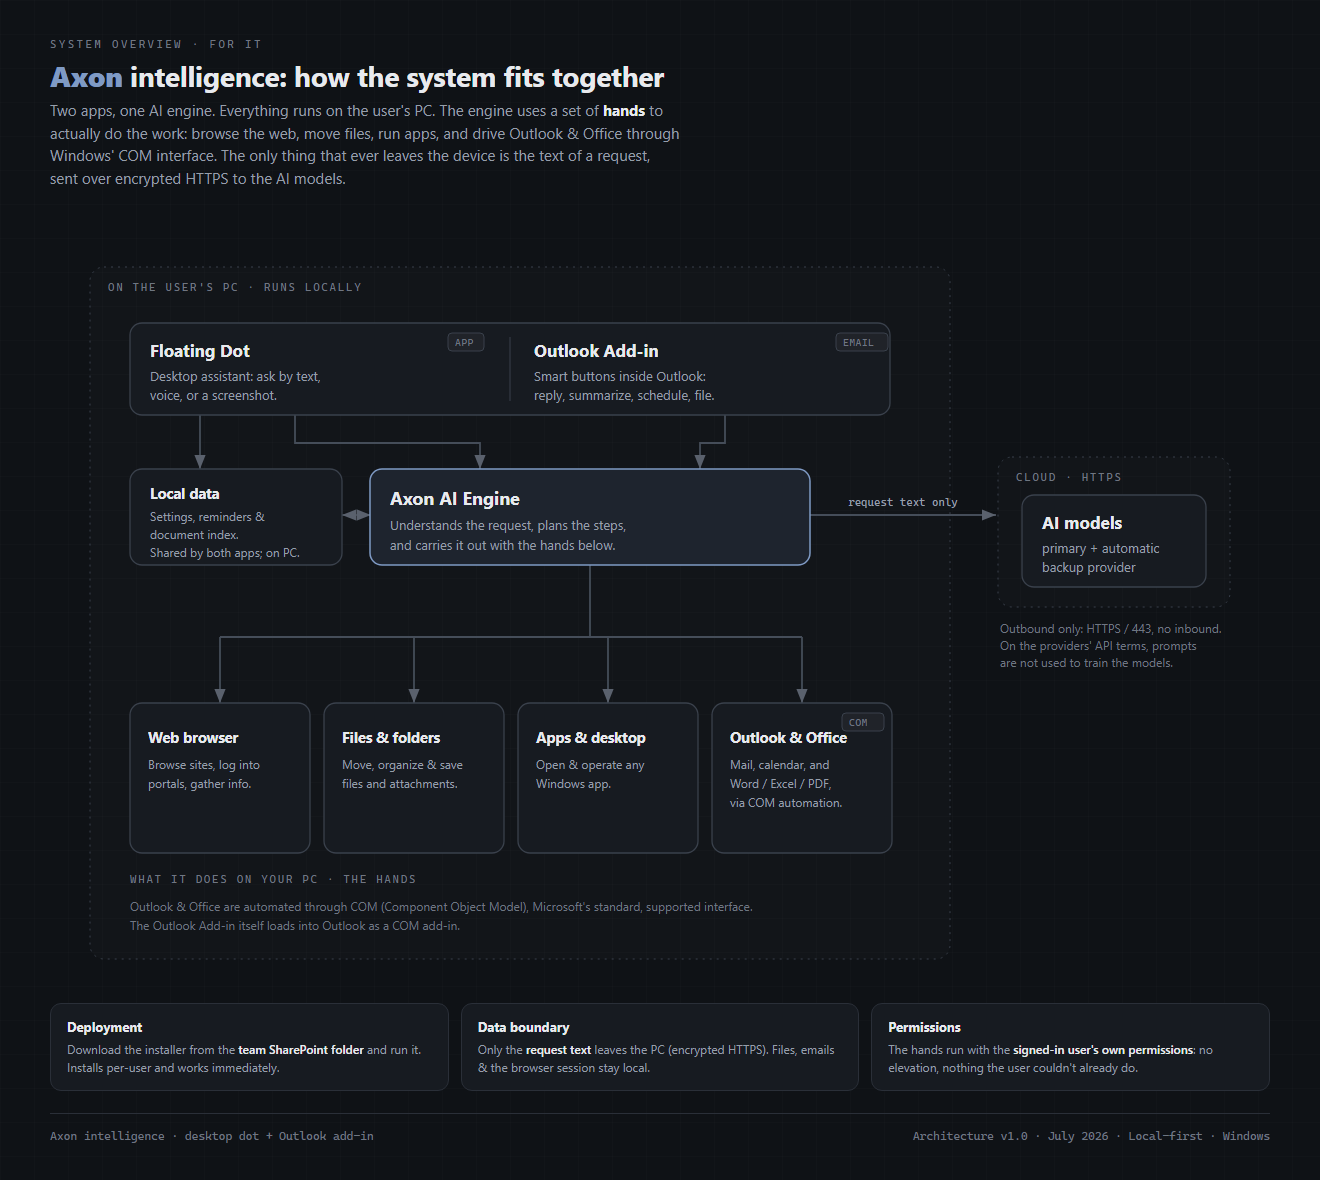
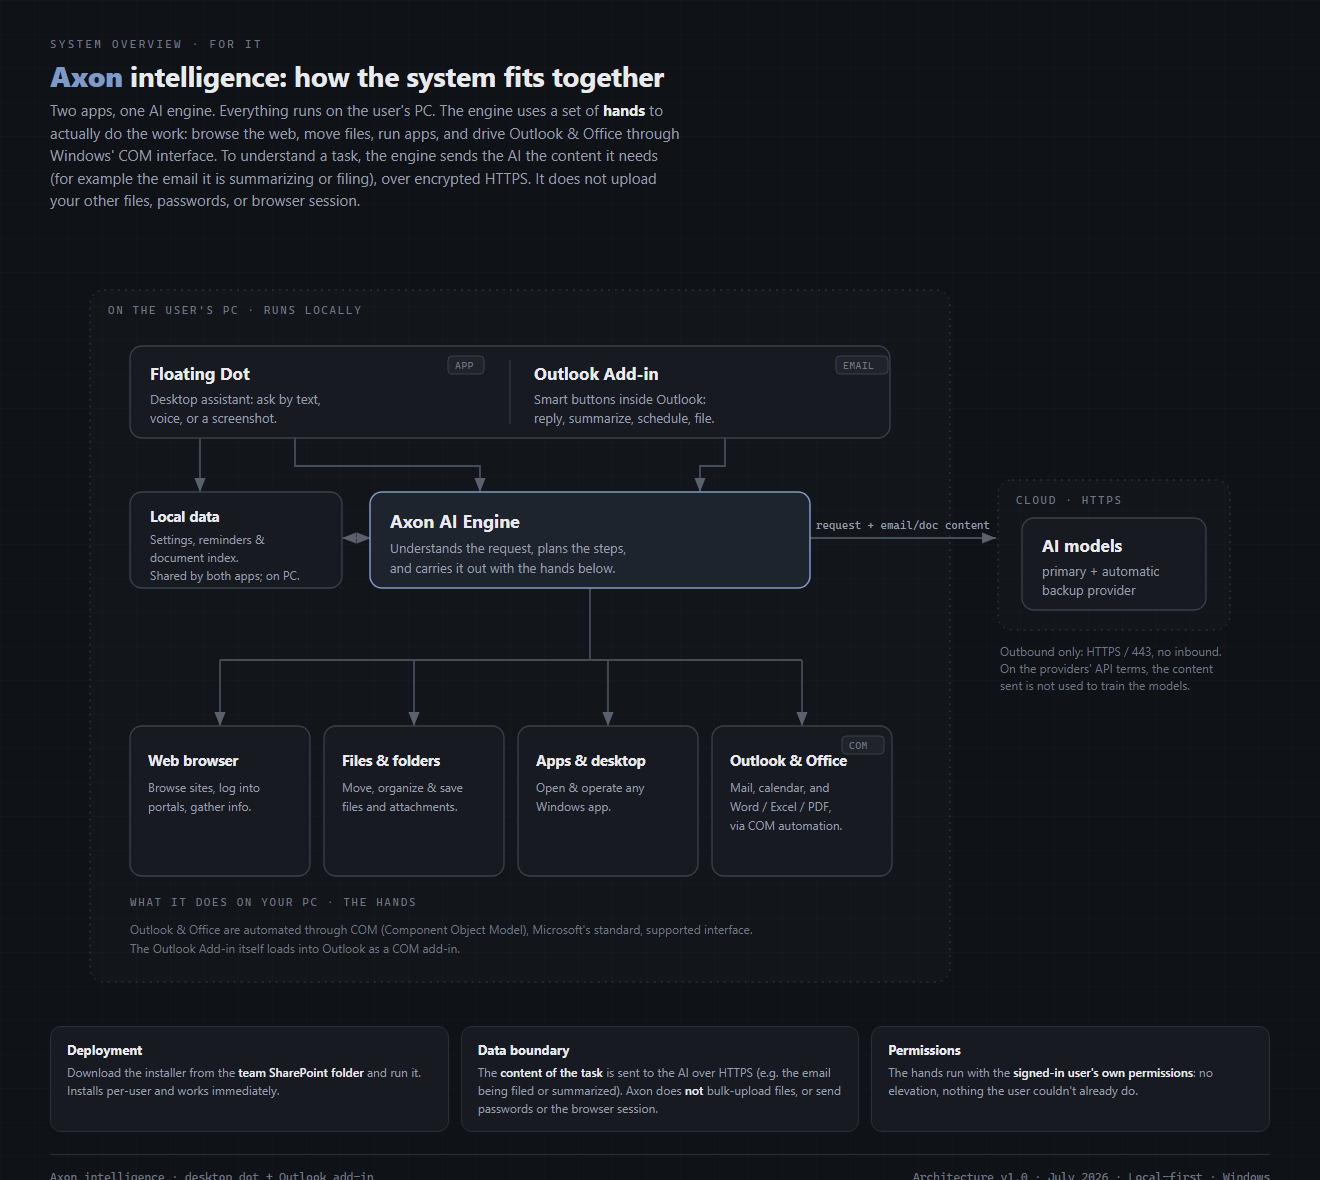
Correct data-boundary wording in architecture diagram/doc
Be accurate: for Outlook tasks the email content is sent to the AI (to summarize, reply, or pick a folder), not just 'request text'. Clarify what is sent (task content) vs not sent (bulk files, passwords, browser session).

diff --git a/docs/architecture.html b/docs/architecture.html
@@ -54,7 +54,7 @@
 
   <div class="kicker">System Overview · for IT</div>
   <h1><b>Axon</b> intelligence: how the system fits together</h1>
-  <p class="sub">Two apps, one AI engine. Everything runs on the user's PC. The engine uses a set of <b style="color:var(--ink)">hands</b> to actually do the work: browse the web, move files, run apps, and drive Outlook &amp; Office through Windows' COM interface. The only thing that ever leaves the device is the text of a request, sent over encrypted HTTPS to the AI models.</p>
+  <p class="sub">Two apps, one AI engine. Everything runs on the user's PC. The engine uses a set of <b style="color:var(--ink)">hands</b> to actually do the work: browse the web, move files, run apps, and drive Outlook &amp; Office through Windows' COM interface. To understand a task, the engine sends the AI the content it needs (for example the email it is summarizing or filing), over encrypted HTTPS. It does not upload your other files, passwords, or browser session.</p>
 
   <div class="canvas">
   <svg viewBox="0 0 1220 772" role="img" aria-label="Axon system overview for IT">
@@ -78,7 +78,7 @@
     <path class="edge" d="M150,208 L150,262" marker-end="url(#arw)"/>
     <path class="edge" d="M320,308 L292,308" marker-end="url(#arw)" marker-start="url(#arwR)"/>
     <path class="edge" d="M760,308 L946,308" marker-end="url(#arw)"/>
-    <text class="el" x="853" y="299" text-anchor="middle">request text only</text>
+    <text class="el" x="853" y="299" text-anchor="middle">request + email/doc content</text>
     <path class="edge" d="M540,358 L540,430"/>
     <path class="edge" d="M170,430 L752,430"/>
     <path class="edge" d="M170,430 L170,496" marker-end="url(#arw)"/>
@@ -164,14 +164,14 @@
 
     <!-- outbound / data-handling note -->
     <text class="nsm" x="950" y="426" style="fill:var(--faint)">Outbound only: HTTPS / 443, no inbound.</text>
-    <text class="nsm" x="950" y="443" style="fill:var(--faint)">On the providers' API terms, prompts</text>
-    <text class="nsm" x="950" y="460" style="fill:var(--faint)">are not used to train the models.</text>
+    <text class="nsm" x="950" y="443" style="fill:var(--faint)">On the providers' API terms, the content</text>
+    <text class="nsm" x="950" y="460" style="fill:var(--faint)">sent is not used to train the models.</text>
   </svg>
   </div>
 
   <div class="notes">
     <div class="note"><h4>Deployment</h4><p>Download the installer from the <b>team SharePoint folder</b> and run it. Installs per-user and works immediately.</p></div>
-    <div class="note"><h4>Data boundary</h4><p>Only the <b>request text</b> leaves the PC (encrypted HTTPS). Files, emails &amp; the browser session stay local.</p></div>
+    <div class="note"><h4>Data boundary</h4><p>The <b>content of the task</b> is sent to the AI over HTTPS (e.g. the email being filed or summarized). Axon does <b>not</b> bulk-upload files, or send passwords or the browser session.</p></div>
     <div class="note"><h4>Permissions</h4><p>The hands run with the <b>signed-in user's own permissions</b>: no elevation, nothing the user couldn't already do.</p></div>
   </div>
 

diff --git a/docs/ARCHITECTURE.md b/docs/ARCHITECTURE.md
@@ -4,8 +4,9 @@
 
 Two apps, one AI engine. Everything runs on the user's PC. The engine uses a set of **hands** to
 actually do the work: browse the web, move files, run apps, and drive Outlook & Office through
-Windows' COM interface. The only thing that ever leaves the device is the text of a request, sent
-over encrypted HTTPS to the AI models.
+Windows' COM interface. To understand a task, the engine sends the AI the content it needs (for
+example the email it is summarizing or filing), over encrypted HTTPS. It does not upload your other
+files, passwords, or browser session.
 
 ![Axon system architecture](architecture.png)
 
@@ -37,14 +38,15 @@ supported interface. The Outlook Add-in itself loads into Outlook as a COM add-i
 **Cloud (HTTPS)**
 
 - **AI models** — a primary provider with an automatic backup. Reached over **HTTPS / 443, outbound
-  only, with no inbound connections.** On the providers' API terms, prompts are not used to train the
-  models.
+  only, with no inbound connections.** On the providers' API terms, the content sent is not used to
+  train the models.
 
 ## Notes for IT
 
 - **Deployment** — Download the installer from the team SharePoint folder and run it. Installs per-user
   and works immediately.
-- **Data boundary** — Only the request text leaves the PC (encrypted HTTPS). Files, emails, and the
-  browser session stay local.
+- **Data boundary** — The content of the task is sent to the AI over HTTPS (for example, the email
+  being filed or summarized). Axon does **not** bulk-upload files, or send passwords or the browser
+  session.
 - **Permissions** — The hands run with the signed-in user's own permissions: no elevation, nothing the
   user couldn't already do.